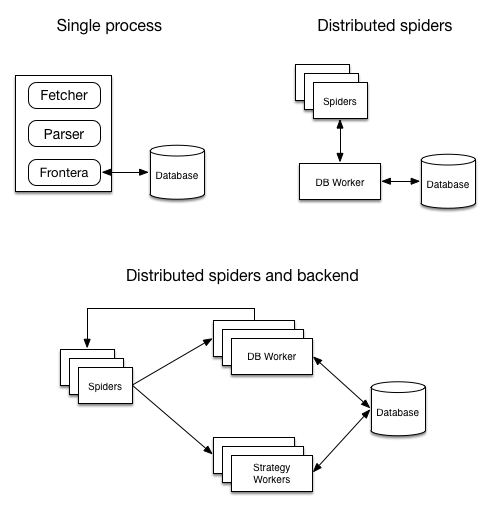
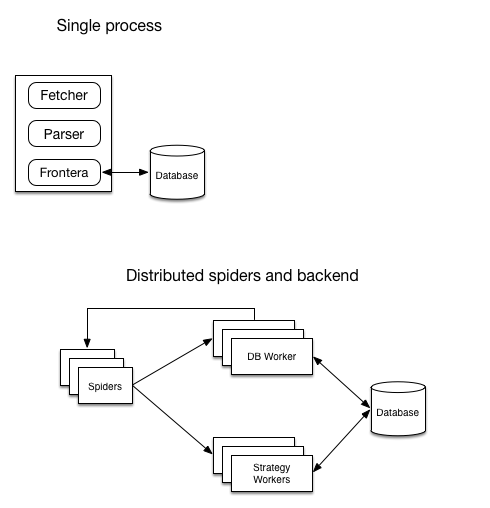
removed distributed spiders run mode

diff --git a/docs/source/topics/run-modes.rst b/docs/source/topics/run-modes.rst
@@ -7,42 +7,26 @@ A diagram showing architecture of running modes:
 .. image:: _images/high-level-arc.png
 
 
-====================  =========================================================================  ======================================================  =====================
-Mode                  Parent class                                                               Components needed                                       Available backends
-====================  =========================================================================  ======================================================  =====================
-Single process        :class:`Backend <frontera.core.components.Backend>`                        single process running the crawler                      Memory, SQLAlchemy
-Distributed spiders   :class:`Backend <frontera.core.components.Backend>`                        spiders and single :term:`db worker`                    Memory, SQLAlchemy
-Distributed backends  :class:`DistributedBackend <frontera.core.components.DistributedBackend>`  spiders, :term:`strategy worker` (s) and db worker(s).  SQLAlchemy, HBase
-====================  =========================================================================  ======================================================  =====================
+====================  ======================================================
+Mode                  Components needed
+====================  ======================================================
+Single process        single process running the crawler
+Distributed           spiders, :term:`strategy worker` (s) and db worker(s).
+====================  ======================================================
 
 
 Single process
 ==============
 
-Frontera is instantiated in the same process as fetcher (for example in Scrapy). To achieve that use :setting:`BACKEND`
-setting set to storage backend subclass of :class:`Backend <frontera.core.components.Backend>`. This run mode is
-suitable for small number of documents and time non-critical applications.
+Frontera is instantiated in the same process as fetcher (for example in Scrapy). Read more on how to use that mode
+:doc:`here <quick-start-single>`.
 
-Distributed spiders
-===================
-
-Spiders are distributed and backend isn't. Backend is running in :term:`db worker` and it's communicating with
-spiders using :term:`message bus`.
-
-1. Use :setting:`BACKEND` in spider processes set to
-   :class:`MessageBusBackend <frontera.contrib.backends.remote.messgebus.MessageBusBackend>`
-2. In DB worker :setting:`BACKEND` should point to :class:`Backend <frontera.core.components.Backend>` subclass.
-3. Every spider process should have it's own :setting:`SPIDER_PARTITION_ID`, starting from 0 to
-   :setting:`SPIDER_FEED_PARTITIONS`.
-4. Both spiders and workers should have it's :setting:`MESSAGE_BUS` setting set to the message bus class of your choice,
-   and other implementation depending settings.
-
-This mode is suitable for applications where it's critical to fetch documents fast, at the same time amount of them
-is relatively small.
+This mode is suitable for developing the crawling strategy locally and applications where its critical to fetch
+small number of documents fast.
 
 
-Distributed spiders and backend
-===============================
+Distributed
+===========
 
 Spiders and backend are distributed. Backend is divided on two parts: :term:`strategy worker` and :term:`db worker`.
 Strategy worker instances are assigned to their own part of :term:`spider log`.
@@ -58,6 +42,6 @@ Strategy worker instances are assigned to their own part of :term:`spider log`.
 5. Both spiders and workers should have it's :setting:`MESSAGE_BUS` setting set to the message bus class of your choice
    and selected message bus have to be configured.
 
-Only Kafka message bus can be used in this mode out of the box and SQLAlchemy and HBase distributed backends.
+Only Kafka message bus can be used in this mode out of the box.
 
-This mode is suitable for broad crawling and large amount of pages.
+This mode is designed for crawling of web-scale large amount of domains and pages.
